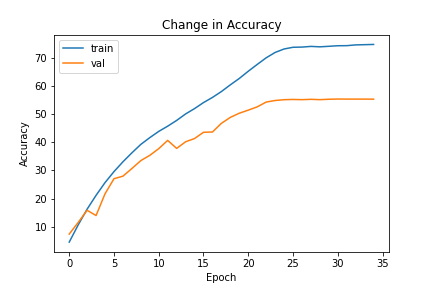
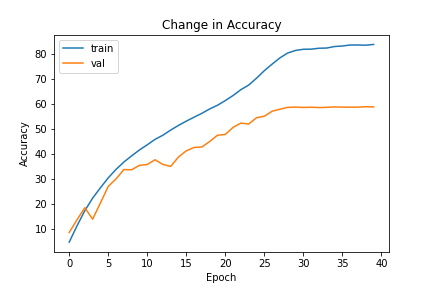
Updated results for S12

diff --git a/S12/annotater.py b/S12/annotater.py
@@ -10,6 +10,7 @@ class Annotater(object):
 		super(Annotater, self).__init__()
 		annotations = self._parse_annotations(in_path)
 		self._parse_and_save(annotations, out_path)
+		self.kmeans_map = {}
 
 	def _parse_annotations(self, path):
 		with open(path, 'r') as f:
@@ -83,34 +84,60 @@ class Annotater(object):
 		axs[1].scatter(self.log_bboxes[:,0], self.log_bboxes[:,1])
 		axs[1].set_xlabel('log(w)')
 		axs[1].set_ylabel('log(h)')
-		plt.show()
 		fig.tight_layout(pad=3.0)
 		fig.savefig("bboxes.png")
-
-	def try_cluster(self):
-		X = self.log_bboxes
-		wcss = []
-		for i in range(1, 11):
-			kmeans = KMeans(n_clusters=i, init='k-means++', max_iter=300,
-							n_init=10, random_state=0)
-			kmeans.fit(X)
-			wcss.append(kmeans.inertia_)
-		plt.plot(range(1, 11), wcss)
-		plt.title('Elbow Method')
-		plt.xlabel('Number of clusters')
-		plt.ylabel('WCSS')
-		plt.savefig("kmeans_elbow.png")
 		plt.show()
 
-	def fit(self, k):
-		X = self.log_bboxes
-		kmeans = KMeans(n_clusters=k, init='k-means++', max_iter=300,
+	def _compute_iou(self, w1, h1, w2, h2):
+		intersection = min(w1, w2) * min(h1, h2)
+		union = (w1 * h1) + (w2 * h2) - intersection
+		iou = intersection/union
+		return iou
+
+	def fit_compare(self, ks):
+		X = self.bboxes
+		N = X.shape[0]
+		mean_ious = []
+		wcss = []
+		for k in ks:
+			kmeans = KMeans(n_clusters=k, init='k-means++', max_iter=300,
 						n_init=10, random_state=0)
-		pred_y = kmeans.fit_predict(X)
-		self.centroids = kmeans.cluster_centers_
-		plt.scatter(X[:,0], X[:,1])
+			kmeans.fit(X)
+			wcss.append(kmeans.inertia_)
+			miou = 0
+			for i in range(N):
+				which_k = kmeans.labels_[i]
+				w1, h1 = kmeans.cluster_centers_[which_k]
+				w2, h2 = X[i]
+				miou += self._compute_iou(w1, h1, w2, h2)
+			miou /= N
+			mean_ious.append(miou)
+			self.kmeans_map[k] = {
+				"kmeans": kmeans,
+				"mean_iou": miou
+			}
+
+		fig, axs = plt.subplots(1, 2, figsize=(12, 4))
+		fig.suptitle("Find Optimal K")
+		axs[0].plot(range(1, len(wcss)+1), wcss, '.-')
+		axs[0].set_xlabel('Number of clusters')
+		axs[0].set_ylabel('WCSS')
+		axs[1].plot(range(1, len(mean_ious)+1), mean_ious, '.-')
+		axs[1].set_xlabel('Centroids')
+		axs[1].set_ylabel('Mean IOU')
+		fig.tight_layout(pad=3.0)
+		fig.savefig("find_best_k.png")
+		plt.show()
+
+	def show_k(self, k):
+		X = self.bboxes
+		kmeans = self.kmeans_map[k]["kmeans"]
+		miou = self.kmeans_map[k]["mean_iou"]
+		print("Centroids: %s" % kmeans.cluster_centers_)
+		print("Mean IOU: %s" % miou)
+		plt.scatter(X[:,0], X[:,1], c=kmeans.labels_.astype(float))
 		plt.scatter(kmeans.cluster_centers_[:, 0], kmeans.cluster_centers_[:, 1],
-					s=300, c='red')
+					s=200, c='red')
 		plt.title("K=%s Clustered Bboxes" % k)
 		plt.savefig("k%s_clustered_bboxes.png" % k)
 		plt.show()

diff --git a/S12/data/data_transforms.py b/S12/data/data_transforms.py
@@ -5,6 +5,8 @@ from albumentations import (
     CoarseDropout,
     RandomCrop,
     PadIfNeeded,
+    RGBShift,
+    Rotate
 )
 from albumentations.pytorch import ToTensor
 import numpy as np
@@ -21,6 +23,8 @@ def albumentations_transforms(p=1.0, is_train=False):
 			PadIfNeeded(min_height=72, min_width=72, p=1.0),
 			RandomCrop(height=64, width=64, p=1.0),
 			HorizontalFlip(p=0.25),
+			Rotate(limit=15, p=0.25),
+			RGBShift(r_shift_limit=20, g_shift_limit=20, b_shift_limit=20, p=0.25),
 			CoarseDropout(max_holes=1, max_height=32, max_width=32, min_height=8,
 						min_width=8, fill_value=mean*255.0, p=0.5),
 		])

diff --git a/S12/README.md b/S12/README.md
@@ -1,0 +1,100 @@
+
+# Session 11 - Object Localization
+
+## Assignment A
+[![Open In Colab](https://colab.research.google.com/assets/colab-badge.svg)](https://colab.research.google.com/github/uday96/EVA4-TSAI/blob/master/S12/EVA4_S12_A_Solution.ipynb)
+
+###	Objective
+Achieve an accuracy of **50%** on the **tiny-imagenet-200** dataset using:
+
+- Download dataset from - http://cs231n.stanford.edu/tiny-imagenet-200.zip
+- Split the data to 70% - 30% train and test
+- Use ResNet architecture
+
+###  Parameters and Hyperparameters
+- Loss Function: Cross Entropy
+- Optimizer: SGD
+- Scheduler: OneCycleLR, ReduceLROnPlateau
+- Batch Size: 256
+- Epochs: 30 (OneCycleLR) + 10 (ReduceLROnPlateau)
+- L2 decay: 5e-3
+
+### Image Augmentation Techniques
+- Pad: h=72, w=72, p=1.0
+- RandomCrop: h=64, w=64, p=1.0
+- Horizontal Flip: p=0.25
+- Rotate: limit=15, p=0.5
+- RGBShift: (20, 20, 20), p=0.25
+- Coarse Dropout: holes=1, h=8, w=8, p=0.75
+
+### Learning Rate Parameters
+OneCycleLR:
+- max_lr: 0.01
+- div_factor: 10
+- final_div_factor: 10
+- anneal_strategy: cos
+- pct: 10/30
+
+ReduceLROnPlateau:
+- mode: min
+- factor: 0.5
+- patience: 1
+- min_lr: 1e-5
+
+### Results
+Achieved  an accuracy of **58.89%** in 39th epoch.
+
+#### Change in Learning Rate
+<img src="images/lr_change.png">
+
+#### Change in Loss
+<img src="images/loss_change.png">
+
+#### Change in Accuracy
+<img src="images/accuracy_change.png">
+
+### GradCAM Visualizations
+
+Visualize GradCAM at different convolutional layers to understand where the network is looking at while prediction
+
+<img src="images/gradcam_incorrect.png">
+
+## Assignment B
+[![Open In Colab](https://colab.research.google.com/assets/colab-badge.svg)](https://colab.research.google.com/github/uday96/EVA4-TSAI/blob/master/S12/EVA4_S12_B_Solution.ipynb)
+
+###	Objective
+
+Find optimal template anchor boxes for a custom dataset of 50 dogs:
+
+- Download 50 images of dogs
+- Annotate the images using: [http://www.robots.ox.ac.uk/~vgg/software/via/via_demo.html](http://www.robots.ox.ac.uk/~vgg/software/via/via_demo.html)
+- Cluster the scaled bounding boxes and compute mean IOU (Intersection Over Union)
+
+### Resource Files
+- The custom dataset of 50 dogs can be found at: [data/annotations/dogs](https://github.com/uday96/EVA4-TSAI/blob/master/S12/data/annotations/dogs)
+- The annotations for all the images can be found at: [data/annotations/annotations_dogs.json](https://github.com/uday96/EVA4-TSAI/blob/master/S12/data/annotations/annotations_dogs.json)
+- The complete image bounding box data can be found at: [data/annotations/bboxes_dogs.csv](https://github.com/uday96/EVA4-TSAI/blob/master/S12/data/annotations/bboxes_dogs.csv)
+
+### Bounding Boxes
+Visualise the scaled bounding boxes of all the images
+<img src="images/bboxes.png">
+
+### Finding Best Bounding Box
+Use Elbow method and Mean IOU to find out the optimal number of clusters
+<img src="images/find_best_k.png">
+
+### Best Fit for Template Anchor Boxes
+k=7 looks like the best fit for the number of anchor boxes
+```
+Centroids:
+[[0.64857487 0.95483271]
+ [0.38918022 0.80225897]
+ [0.88347826 0.94057948]
+ [0.58260932 0.75270229]
+ [0.73395483 0.88481587]
+ [0.47028511 0.95885636]
+ [0.92638889 0.75090312]]
+
+Mean IOU: 0.8979057995199584
+```
+<img src="images/k7_clustered_boxes.png">

diff --git a/README.md b/README.md
@@ -36,3 +36,7 @@ Achieve 88% test accuracy on the CIFAR-10 dataset with ResNet18. Implement Lesli
 ## Session 11 - Super Convergence
 
 Achieve 90% test accuracy on the CIFAR-10 dataset with a custom ResNet architecture and One Cycle Policy for faster convergence.
+
+## Session 12 - Object Localization
+
+Achieve 50% test accuracy on the tiny-imagenet-200 dataset. Make a custom dataset of 50 dogs and find optimal template anchor boxes.
